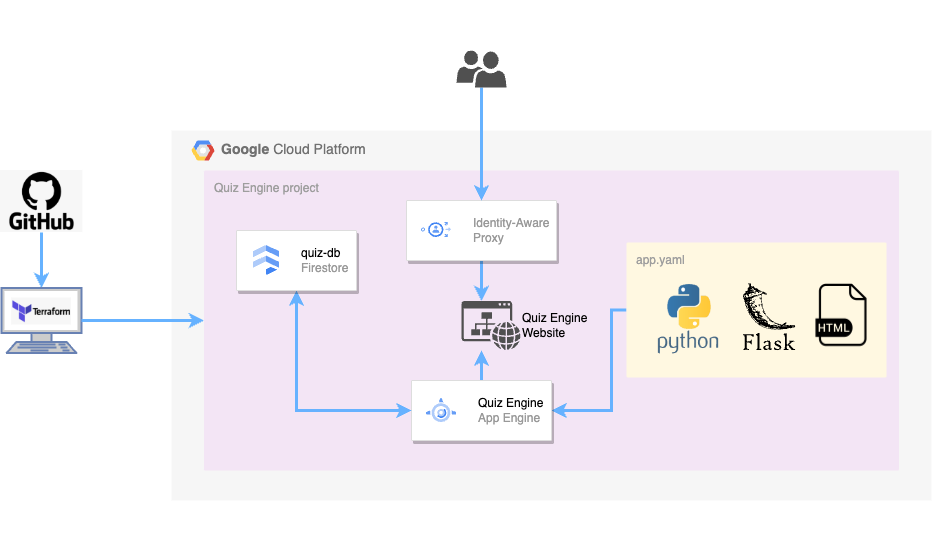
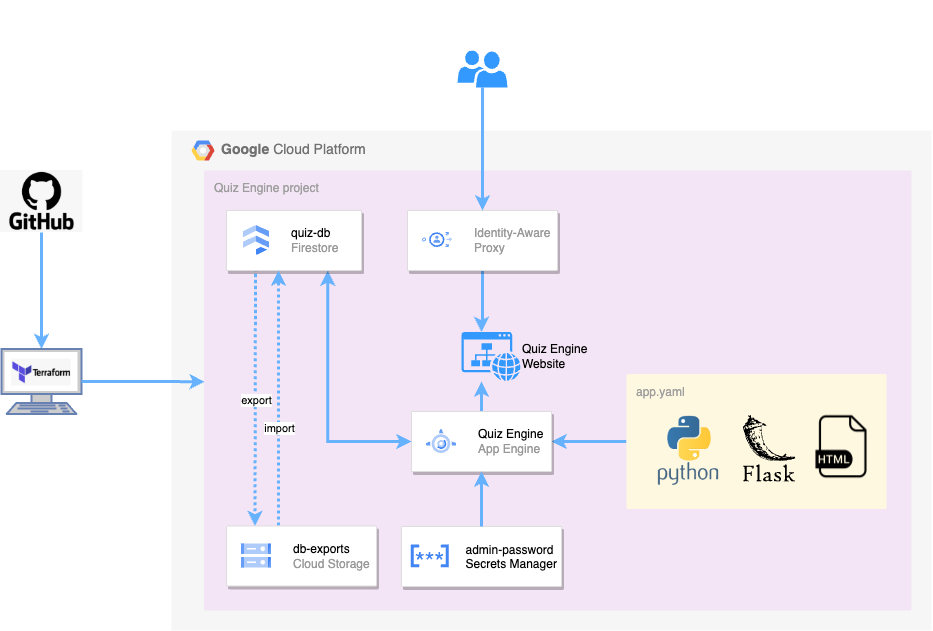
add secret manager config for admin password

diff --git a/app/templates/content_db_import.html b/app/templates/content_db_import.html
@@ -32,6 +32,12 @@
                             </tr>
                         {% endfor %}
                     </table>
+                    <hr>
+                    <table>    
+                        <tr>
+                            <td><input type="checkbox" name="delete_db"></td><td><b>Delete DB before import</b></td>
+                        </tr>
+                    </table>
                     <input hidden type="text" value="init" name="status">
                     <input class="actionbutton" type="submit" value="Start">
                 </form>

diff --git a/app/main.py b/app/main.py
@@ -4,7 +4,7 @@ import time
 from pathlib import Path
 from wsgiref.simple_server import WSGIRequestHandler
 import firebase_admin
-from google.cloud import firestore_admin_v1, storage
+from google.cloud import firestore_admin_v1, storage, secretmanager
 from firebase_admin import credentials
 from firebase_admin import firestore
 from flask import Flask, render_template, request, redirect, make_response
@@ -17,7 +17,6 @@ groups = []
 questions = []
 header_path = ""
 edit_mode = True
-edit_passwd = "admin123"
 passwd_input_visible = False
 project_id = Path('env_project_id.txt').read_text()
 suffix = Path('env_suffix.txt').read_text()
@@ -29,6 +28,17 @@ firebase_admin.initialize_app(cred)
 # init quiz-db
 db = firestore.client()
 db_ref = db.collection(u'quiz-db')
+
+# get the admin password secret
+secretmanager_client = secretmanager.SecretManagerServiceClient()
+secret_detail = f"projects/{project_id}/secrets/admin-password/versions/latest"
+response = secretmanager_client.access_secret_version(request={"name": secret_detail})
+admin_passwd = response.payload.data.decode("UTF-8")
+#print(data)
+#print("Data: {}".format(data))
+
+###########################################################################
+# define routes
 
 @app.route('/', methods = ['GET', 'POST'])
 
@@ -93,7 +103,7 @@ def editmode():
                 passwd_input = request.form['passwd_input']
             except:
                 passwd_input = ""   
-            if passwd_input == edit_passwd:
+            if passwd_input == admin_passwd:
                 edit_mode = True
             else:
                 edit_mode = False
@@ -678,6 +688,7 @@ def db_export():
 def db_import():
     # vars
     bucket_name = "quiz-engine-storage-db-exports-" + suffix
+    delete_db = 'off'
     global export_list
     # global vars
     global edit_mode
@@ -687,6 +698,10 @@ def db_import():
             status = request.form['status']
         except:
             status = 'none'
+        try:
+            delete_db = request.form['delete_db']
+        except:
+            delete_db = 'off'
         if status == 'close':
             res = make_response(redirect('/'))
         elif status == 'init':
@@ -698,6 +713,9 @@ def db_import():
             #    object = blob.name.split("/", 1)[0]
             #    if object not in export_list:
             #        export_list.append(object)  
+            print(delete_db)
+            if delete_db == 'on':
+                delete_collection(db_ref, 10)
             selected_index = request.form['selected_index']
             #print(export_list[int(selected_index)])
             # Create a client
@@ -741,6 +759,18 @@ def db_import():
             passwd_input_visible=passwd_input_visible
         ))  
     return res    
+
+def delete_collection(coll_ref, batch_size):
+    docs = coll_ref.list_documents(page_size=batch_size)
+    deleted = 0
+
+    for doc in docs:
+        print(f'Deleting doc {doc.id} => {doc.get().to_dict()}')
+        doc.delete()
+        deleted = deleted + 1
+
+    if deleted >= batch_size:
+        return delete_collection(coll_ref, batch_size)
 
 if __name__ == '__main__':
     app.run(debug=True, host='0.0.0.0', port=8080)
